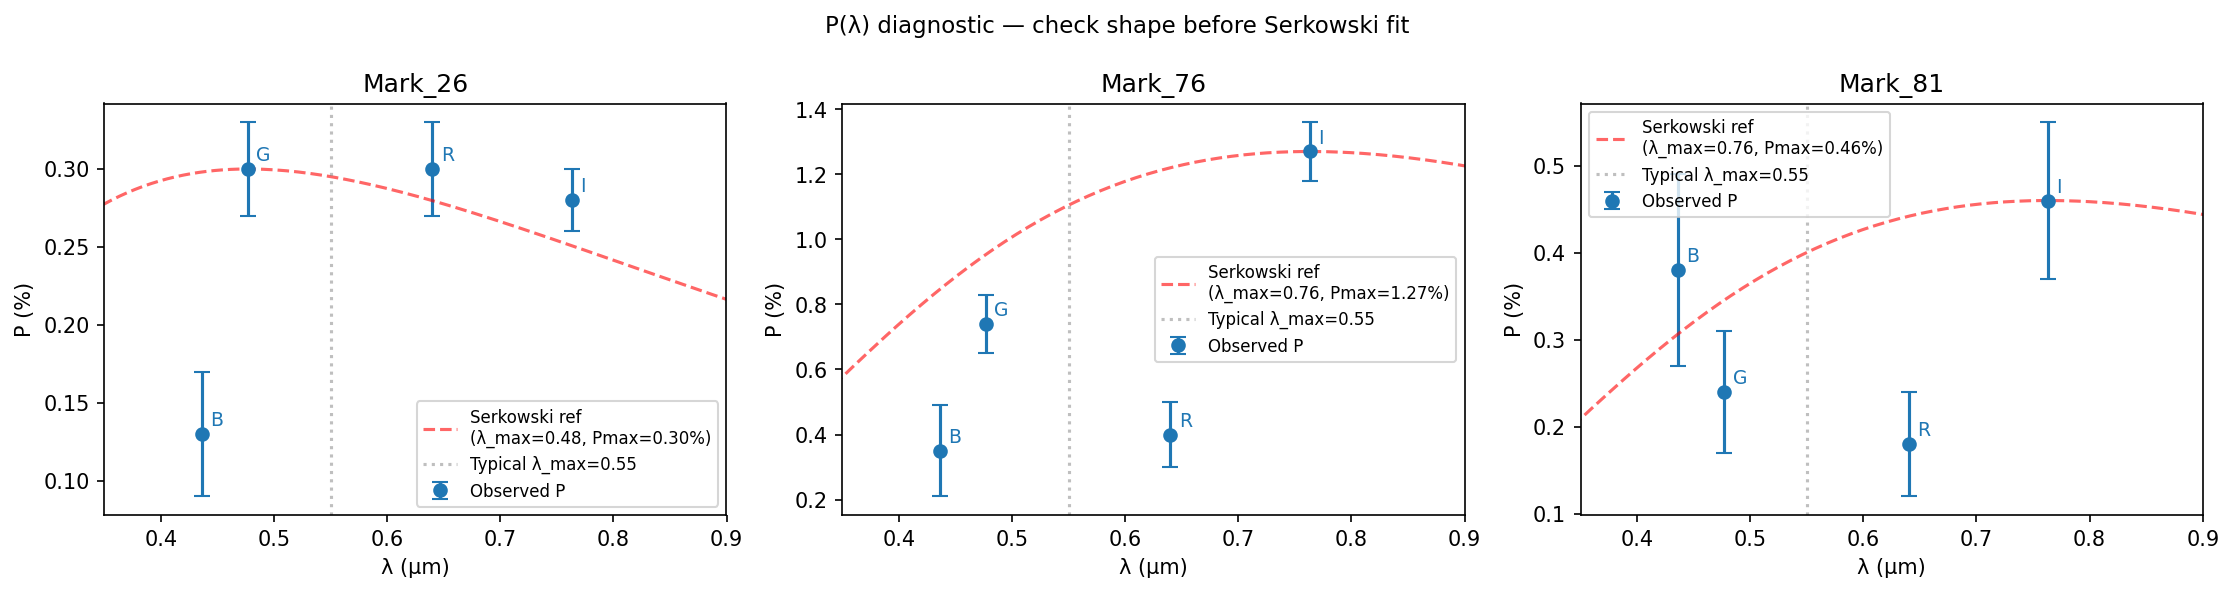
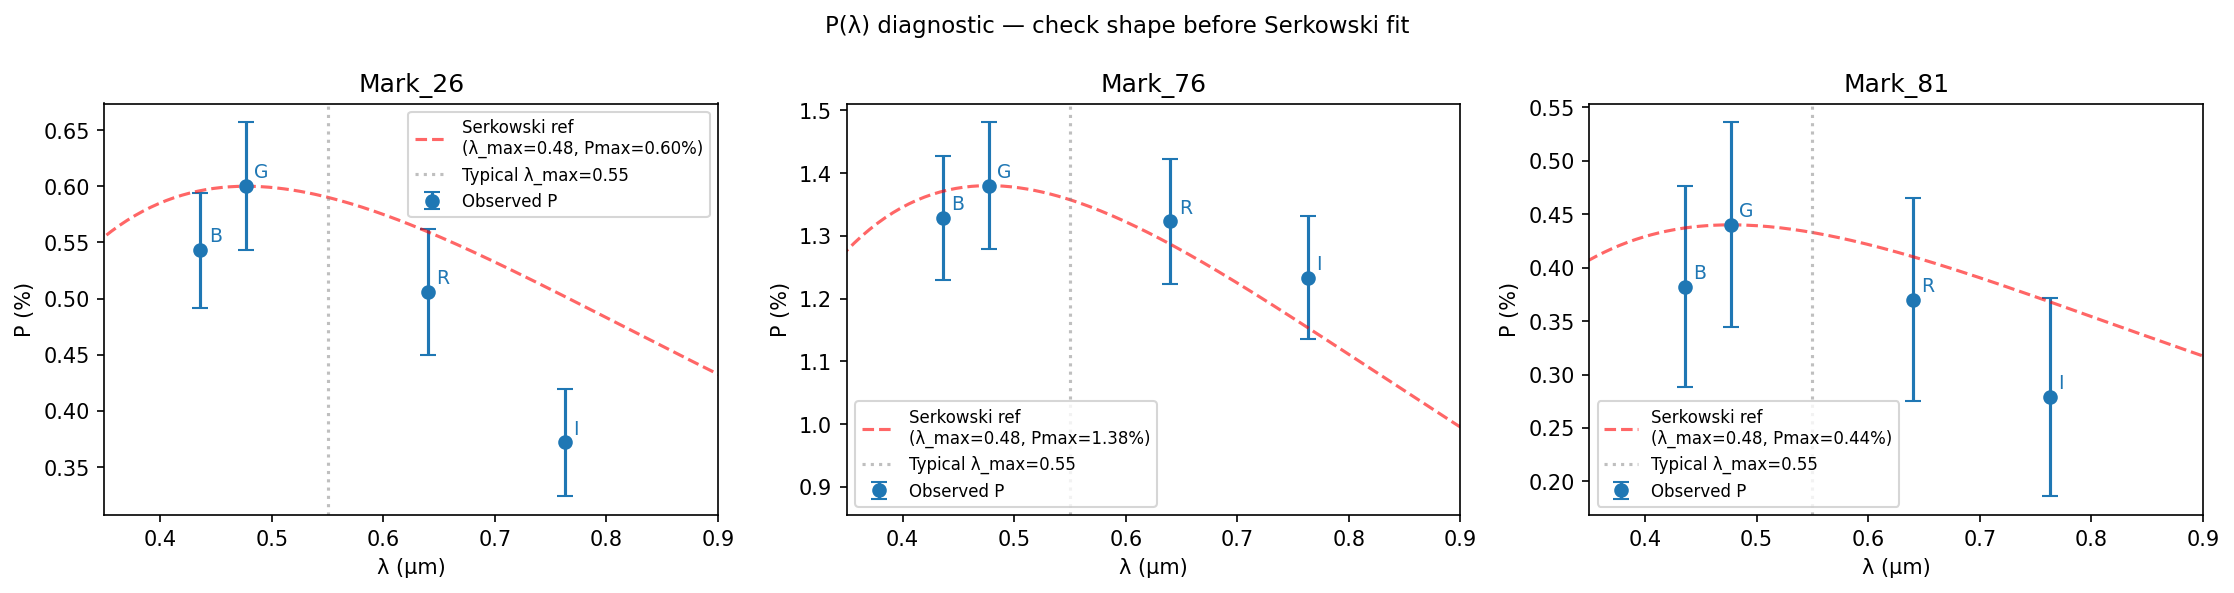
serkowski with new correct instr script

diff --git a/5_serkowski/check_serkowski_data.py b/5_serkowski/check_serkowski_data.py
@@ -18,10 +18,10 @@ from collections import defaultdict
 # Configuration 
 
 BAND_FILES = {
-    "B": "../0_data/B/Markkanen_final.dat",
-    "G": "../0_data/G/Markkanen_final.dat",   # G filter — confirm λ_eff 
-    "R": "../0_data/R/Markkanen_final_merged_serkowski.dat",
-    "I": "../0_data/I/Markkanen_final.dat",
+    "B": "../0_data/B/Mark_B_corr.dat",
+    "G": "../0_data/G/Mark_g_corr.dat",   # G filter — confirm λ_eff 
+    "R": "../0_data/R/Mark_R_corr.dat",
+    "I": "../0_data/I/Mark_i_corr.dat",
 }
 
 
